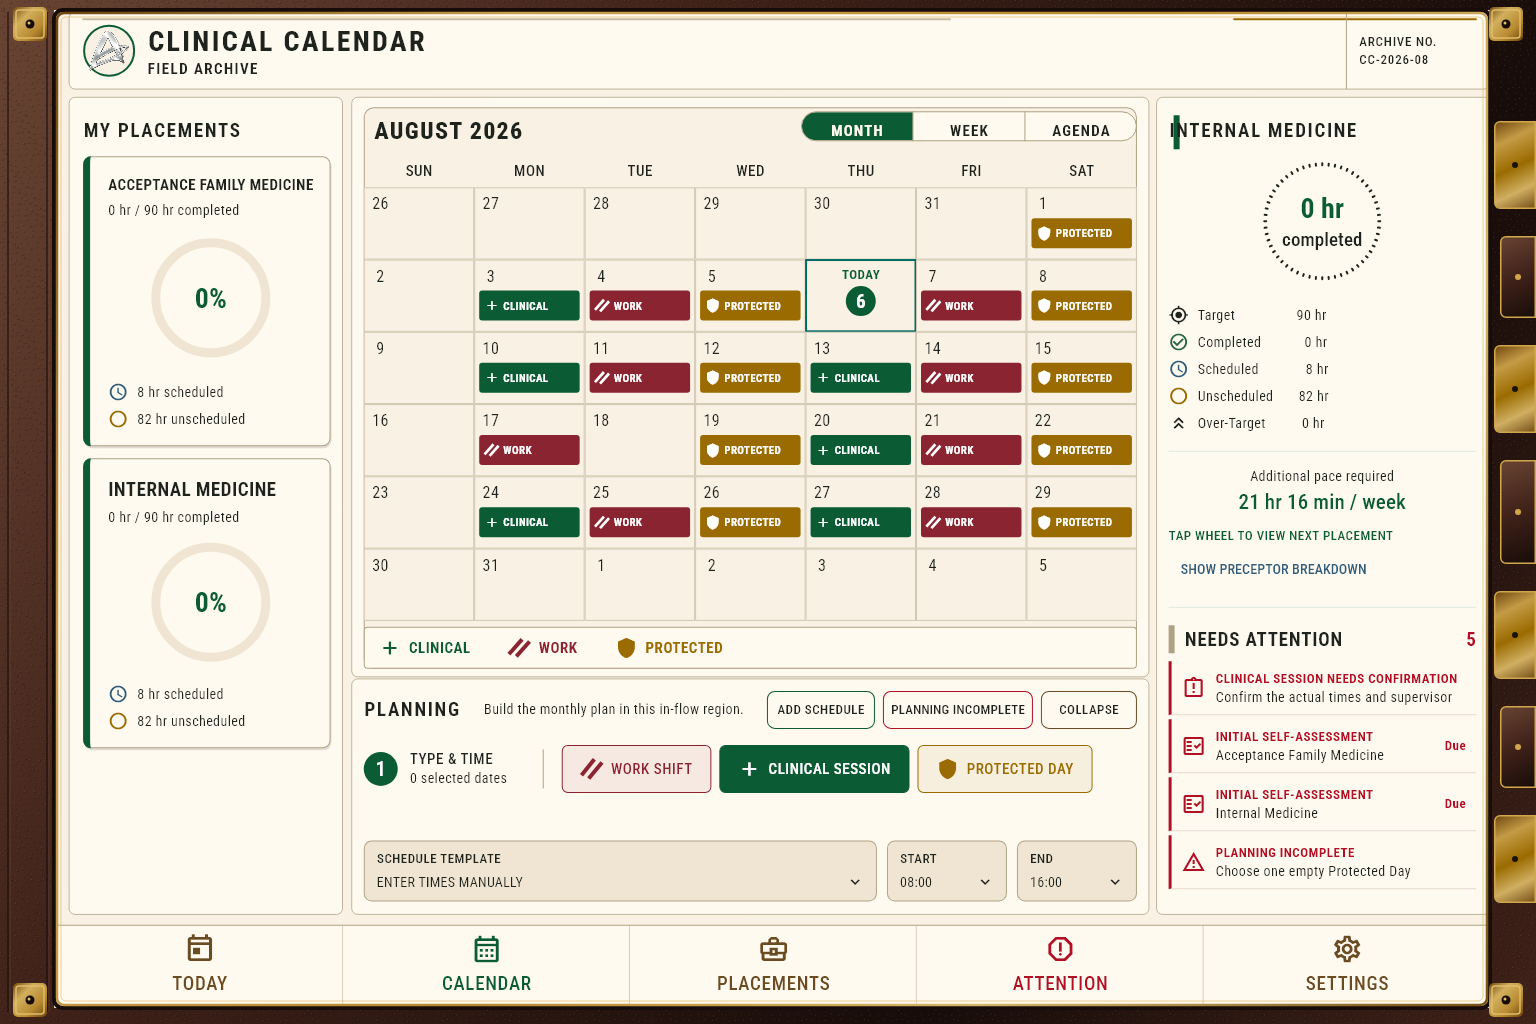
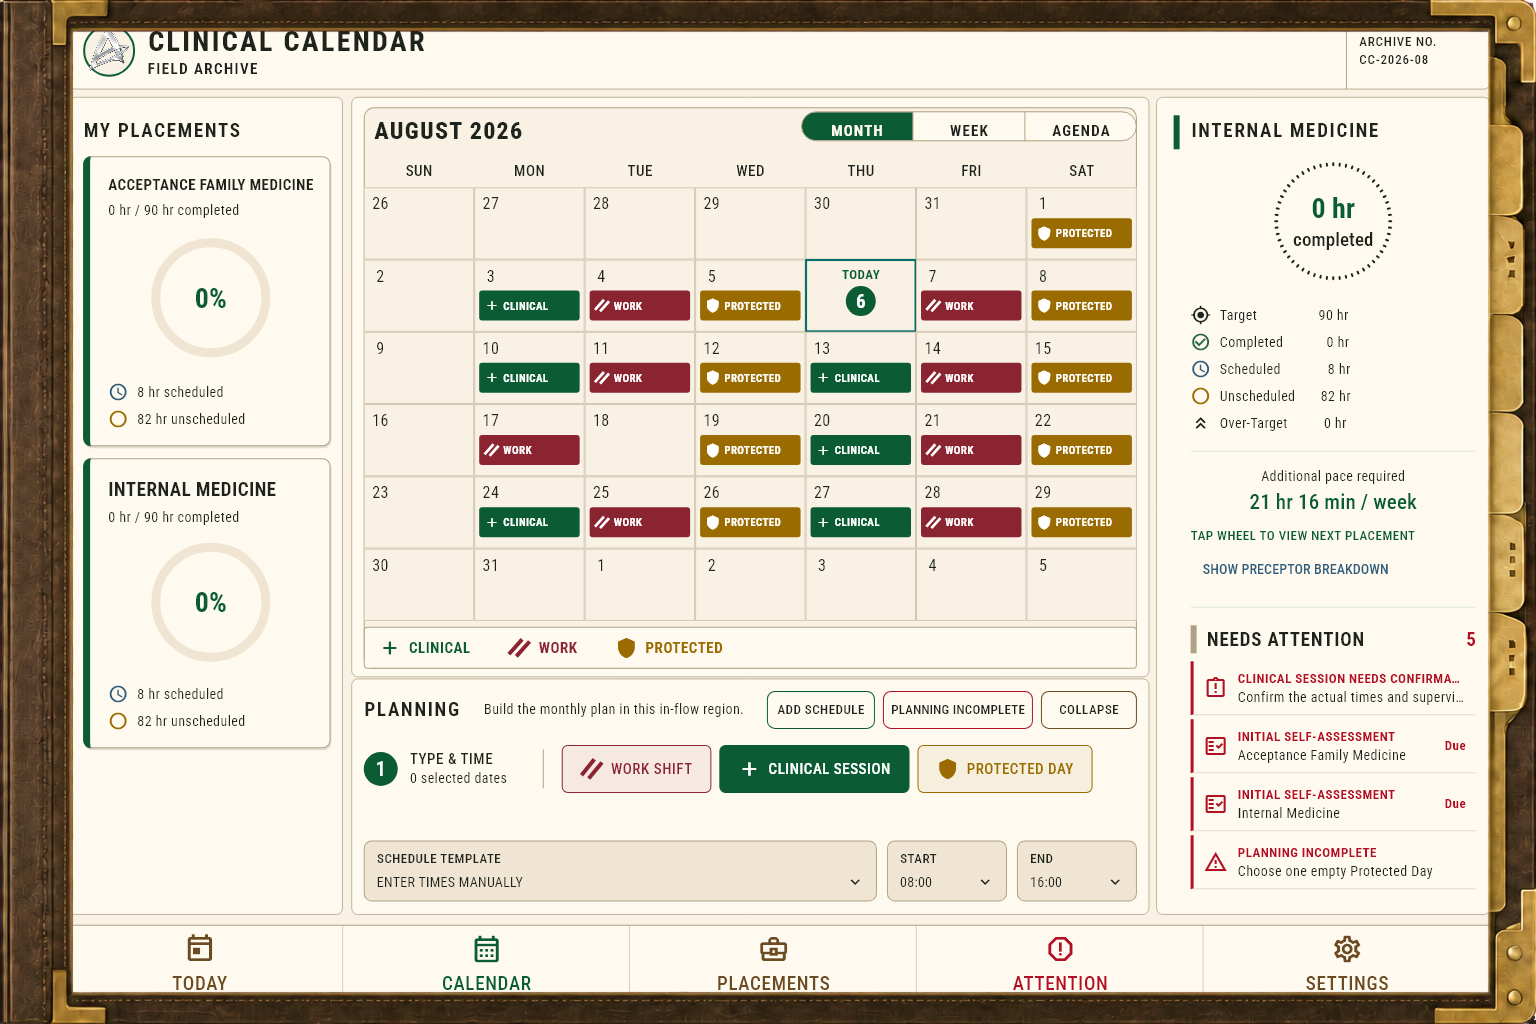
fix(theme): connect Field Archive material chassis

Changed region(s): [[0.0, 0.0, 1.0, 1.0]]

diff --git a/packages/clinical_calendar_presentation/lib/src/heritage_field_notes_shell.dart b/packages/clinical_calendar_presentation/lib/src/heritage_field_notes_shell.dart
@@ -200,21 +200,22 @@ final class HeritageFieldNotesApplicationShell extends StatelessWidget {
             },
           ),
         ),
-        const Positioned.fill(
+        Positioned.fill(
           child: ExcludeSemantics(
             child: IgnorePointer(
-              child: CustomPaint(
-                painter: _HeritageFieldNotesArchiveChassisPainter(),
+              child: Image(
+                image: AssetImage(
+                  heritageFieldNotesMaterialChassisAsset,
+                  package: 'clinical_calendar_presentation',
+                ),
+                fit: BoxFit.fill,
+                filterQuality: FilterQuality.high,
+                errorBuilder: (context, error, stackTrace) => const CustomPaint(
+                  painter: _HeritageFieldNotesArchiveChassisPainter(),
+                ),
               ),
             ),
           ),
-        ),
-        const Positioned(
-          right: 0,
-          top: 94,
-          bottom: 94,
-          width: 42,
-          child: _HeritageFieldNotesIndexTabs(),
         ),
       ],
     ),
@@ -600,7 +601,11 @@ final class _HeritageFieldNotesConsoleBay extends StatelessWidget {
       clipper: _HeritageFieldNotesBayClipper(shape),
       child: Padding(
         padding: EdgeInsets.fromLTRB(
-          shape == _HeritageFieldNotesBayShape.placement ? 14 : 12,
+          switch (shape) {
+            _HeritageFieldNotesBayShape.placement => 14,
+            _HeritageFieldNotesBayShape.insight => 34,
+            _ => 12,
+          },
           switch (shape) {
             _HeritageFieldNotesBayShape.calendar => 10,
             _HeritageFieldNotesBayShape.planning => 12,
@@ -1015,68 +1020,4 @@ final class _HeritageFieldNotesNavigationDeck extends StatelessWidget {
       ),
     );
   }
-}
-
-final class _HeritageFieldNotesIndexTabs extends StatelessWidget {
-  const _HeritageFieldNotesIndexTabs();
-
-  @override
-  Widget build(BuildContext context) => ExcludeSemantics(
-    child: IgnorePointer(
-      child: Column(
-        mainAxisAlignment: MainAxisAlignment.spaceEvenly,
-        crossAxisAlignment: CrossAxisAlignment.end,
-        children: [
-          for (var index = 0; index < 7; index++)
-            Container(
-              width: index.isEven ? 42 : 36,
-              height: index == 3
-                  ? 104
-                  : index.isEven
-                  ? 88
-                  : 82,
-              decoration: BoxDecoration(
-                gradient: index.isEven
-                    ? const LinearGradient(
-                        begin: Alignment.topLeft,
-                        end: Alignment.bottomRight,
-                        colors: [
-                          Color(0xFF6C430C),
-                          Color(0xFFC49B45),
-                          Color(0xFF9A6B00),
-                          Color(0xFFD0AF62),
-                          Color(0xFF704A13),
-                        ],
-                        stops: [0, .24, .52, .76, 1],
-                      )
-                    : const LinearGradient(
-                        begin: Alignment.topLeft,
-                        end: Alignment.bottomRight,
-                        colors: [
-                          Color(0xFF694433),
-                          Color(0xFF402219),
-                          Color(0xFF170C09),
-                        ],
-                      ),
-                border: Border.all(color: const Color(0xFFD2A74B), width: 1.5),
-                borderRadius: const BorderRadius.horizontal(
-                  left: Radius.circular(6),
-                ),
-              ),
-              alignment: Alignment.center,
-              child: Container(
-                width: 6,
-                height: 6,
-                decoration: BoxDecoration(
-                  color: index.isEven
-                      ? const Color(0xFF1B110C)
-                      : const Color(0xFFD2A74B),
-                  shape: BoxShape.circle,
-                ),
-              ),
-            ),
-        ],
-      ),
-    ),
-  );
 }

diff --git a/packages/clinical_calendar_presentation/test/heritage_field_notes_visual_proof_test.dart b/packages/clinical_calendar_presentation/test/heritage_field_notes_visual_proof_test.dart
@@ -87,6 +87,9 @@ Future<void> _pumpProof(
     brandFile: _findWorkspaceFile(
       'packages/clinical_calendar_presentation/$heritageFieldNotesAxionDeltaAsset',
     ),
+    chassisFile: _findWorkspaceFile(
+      'packages/clinical_calendar_presentation/$heritageFieldNotesMaterialChassisAsset',
+    ),
   );
   final preloadKey = GlobalKey();
   await tester.pumpWidget(
@@ -106,6 +109,13 @@ Future<void> _pumpProof(
     await precacheImage(
       const AssetImage(
         heritageFieldNotesAxionDeltaAsset,
+        package: 'clinical_calendar_presentation',
+      ),
+      preloadKey.currentContext!,
+    );
+    await precacheImage(
+      const AssetImage(
+        heritageFieldNotesMaterialChassisAsset,
         package: 'clinical_calendar_presentation',
       ),
       preloadKey.currentContext!,
@@ -187,10 +197,15 @@ File _findWorkspaceFile(String relativePath) {
 }
 
 final class _ProofAssetBundle extends CachingAssetBundle {
-  _ProofAssetBundle({required this.frameFile, required this.brandFile});
+  _ProofAssetBundle({
+    required this.frameFile,
+    required this.brandFile,
+    required this.chassisFile,
+  });
 
   final File frameFile;
   final File brandFile;
+  final File chassisFile;
 
   @override
   Future<ByteData> load(String key) async {
@@ -204,6 +219,12 @@ final class _ProofAssetBundle extends CachingAssetBundle {
         'packages/clinical_calendar_presentation/$heritageFieldNotesAxionDeltaAsset') {
       return ByteData.sublistView(
         Uint8List.fromList(await brandFile.readAsBytes()),
+      );
+    }
+    if (key ==
+        'packages/clinical_calendar_presentation/$heritageFieldNotesMaterialChassisAsset') {
+      return ByteData.sublistView(
+        Uint8List.fromList(await chassisFile.readAsBytes()),
       );
     }
     return rootBundle.load(key);

diff --git a/packages/clinical_calendar_presentation/lib/src/heritage_field_notes_frame.dart b/packages/clinical_calendar_presentation/lib/src/heritage_field_notes_frame.dart
@@ -8,6 +8,8 @@ const heritageFieldNotesFrameAsset =
     'assets/heritage_field_notes_raster/panel-nine-slice-v1.png';
 const heritageFieldNotesAxionDeltaAsset =
     'assets/heritage_field_notes_brand/axion-delta.png';
+const heritageFieldNotesMaterialChassisAsset =
+    'assets/heritage_field_notes_materials/field-archive-chassis.png';
 const heritageFieldNotesCalendarSafeInsets = EdgeInsets.fromLTRB(
   38,
   46,

diff --git a/packages/clinical_calendar_presentation/test/theme_bundle_test.dart b/packages/clinical_calendar_presentation/test/theme_bundle_test.dart
@@ -227,6 +227,7 @@ void main() {
     expect(fieldArchive.frame.assetPaths, const [
       heritageFieldNotesFrameAsset,
       heritageFieldNotesAxionDeltaAsset,
+      heritageFieldNotesMaterialChassisAsset,
     ]);
     expect(fieldArchive.gallery.swatches, hasLength(5));
     expect(fieldArchive.marks.marks, hasLength(9));

diff --git a/packages/clinical_calendar_presentation/lib/src/theme_contract.dart b/packages/clinical_calendar_presentation/lib/src/theme_contract.dart
@@ -1563,6 +1563,7 @@ final class HeritageFieldNotesThemeBundle
     assetPaths: [
       heritageFieldNotesFrameAsset,
       heritageFieldNotesAxionDeltaAsset,
+      heritageFieldNotesMaterialChassisAsset,
     ],
     sourceSize: Size(1536, 1024),
     sourceCuts: EdgeInsets.fromLTRB(120, 145, 120, 170),

diff --git a/docs/themes/acceptance/proofs/heritage-field-notes/rejected/2efad9d/README.md b/docs/themes/acceptance/proofs/heritage-field-notes/rejected/2efad9d/README.md
@@ -1,4 +1,7 @@
-# Field Archive concept-fidelity candidate
+# Rejected Field Archive proof — 2efad9d
+
+Status: **rejected/superseded by maintainer border and material feedback**.
+This directory is historical evidence only and is not an acceptance baseline.
 
 Issue: [#137](https://github.com/mshamblin5150-code/clinical-calendar/issues/137)
 
@@ -32,13 +35,9 @@ untouched 1536 by 1024 concept (excluding comparison labels): the
 deep leather-and-brass book-board chassis, Axion-delta archival crown, tall
 placement bays, central Calendar and Planning hierarchy, right progress and
 attention rail, indexed hardware, and bottom navigation deck. Field Archive
-reserves the concept-derived dark leather and dimensional aged brass for that
-outer chassis. Its right-side index tabs are part of the same raster chassis
-and visibly join the journal page edge instead of floating independently. The
-live page is backed by parchment and its interior bays use single quiet rules
-without nested rims or cast shadows, matching the concept's border hierarchy.
-The insight rail reserves a separate content inset beside its green section
-rule so `INTERNAL MEDICINE` never paints beneath the accent. It also
+reserves dark leather and dimensional brass for that outer chassis: the live page is
+backed by parchment and its interior bays use single quiet rules without
+nested rims or cast shadows, matching the concept's border hierarchy. It also
 opts into the concept's uppercase archival month toolbar, forest-selected
 period controls, abbreviated weekday row, filled semantic Calendar bars, and
 bottom legend while every other theme keeps its established default. Its
@@ -67,18 +66,6 @@ downscaled for the product crown. The final asset contains no added text and
 has SHA-256
[1 lines of base64/hex data omitted]
 
-## Leather-and-brass chassis record
-
-The landscape renderer uses
-`assets/heritage_field_notes_materials/field-archive-chassis.png`, produced
-with the built-in image tool from the untouched approved concept. The edit
-preserved only its outer aged-leather cover, embossed edge treatment, antique
-brass perimeter and fasteners, and the connected page-edge index tabs. All
-text, controls, icons, paper content, and live panels were removed onto a flat
-magenta key; the installed chroma-removal helper produced the transparent
-product overlay. The final 1536 by 1024 asset has SHA-256
[1 lines of base64/hex data omitted]
-
 ## Original frame creation record
 
 The production `panel-nine-slice-v1.png` was generated with the built-in image
@@ -97,12 +84,11 @@ corners, uses source cuts 120/145/120/170, and has SHA-256
 
 ```text
 bf131014c71df2adc4b34b70c99e3e5ed94e54f0e1753d3979d0b6e85da66c75  approved-concept-landscape.png
-19a57d43e8d98945d42c9c3bca6ffd39c1b22d362f6c7b7f58adbc4c668de6c4  landscape-concept-vs-runtime.png
-b34d95376c7fc319eda3b8fbb5a10221f2edd470903e7fa05a3620920c60409c  runtime-landscape-1536x1024.png
-f478aee3077f7430518ffc41b867b3d3ca60c72db794491da935e0cb406fc41f  runtime-portrait-900x1440.png
+003752bebdd1493a455ca365f266404dd36de6fdea998af4f23bd675b38fb509  landscape-concept-vs-runtime.png
+508a7d69ce730992bc8167e294b95457984f4421dab1ef1ea6b92e676f6a5aa4  runtime-landscape-1536x1024.png
+0a97d1bdcb381f45acd2031eb25f39c21a746ad6e4abafb5bfac89193eba9039  runtime-portrait-900x1440.png
 8abfea4d5498a60e9faae0bb2e250b62cbfed6984c92e5426ab3a8b875d99345  runtime-portrait-200-percent-900x1440.png
 21f3f6a7c3f4cc67ad0c86943d8191c622a2030ca6d51dd5c1dabf4d37327c06  axion-delta.png
-5b4001634b5ea68a49a2389021d1398499f6bd7cc30bc03372ba9ce841ccc83e  field-archive-chassis.png
 ```
 
 ## Physical Android-tablet acceptance

diff --git a/docs/concepts/themes/heritage-field-notes/README.md b/docs/concepts/themes/heritage-field-notes/README.md
@@ -57,6 +57,12 @@ brass material depth. This supersedes the earlier flat walnut-only housing
 restriction. Texture and metallic reflection remain confined to
 noninteractive chrome.
 
+The maintainer's subsequent border review requires the right-side brass tabs
+to read as physical journal separations attached to the page edge, never as
+free-floating controls, and requires the insight title to sit beside rather
+than beneath its green section rule. The approved concept's leather cover and
+aged-brass chassis are therefore the normative material reference.
+
 ## Artifact
 
 - `calendar-dashboard-concept-v1.png`
